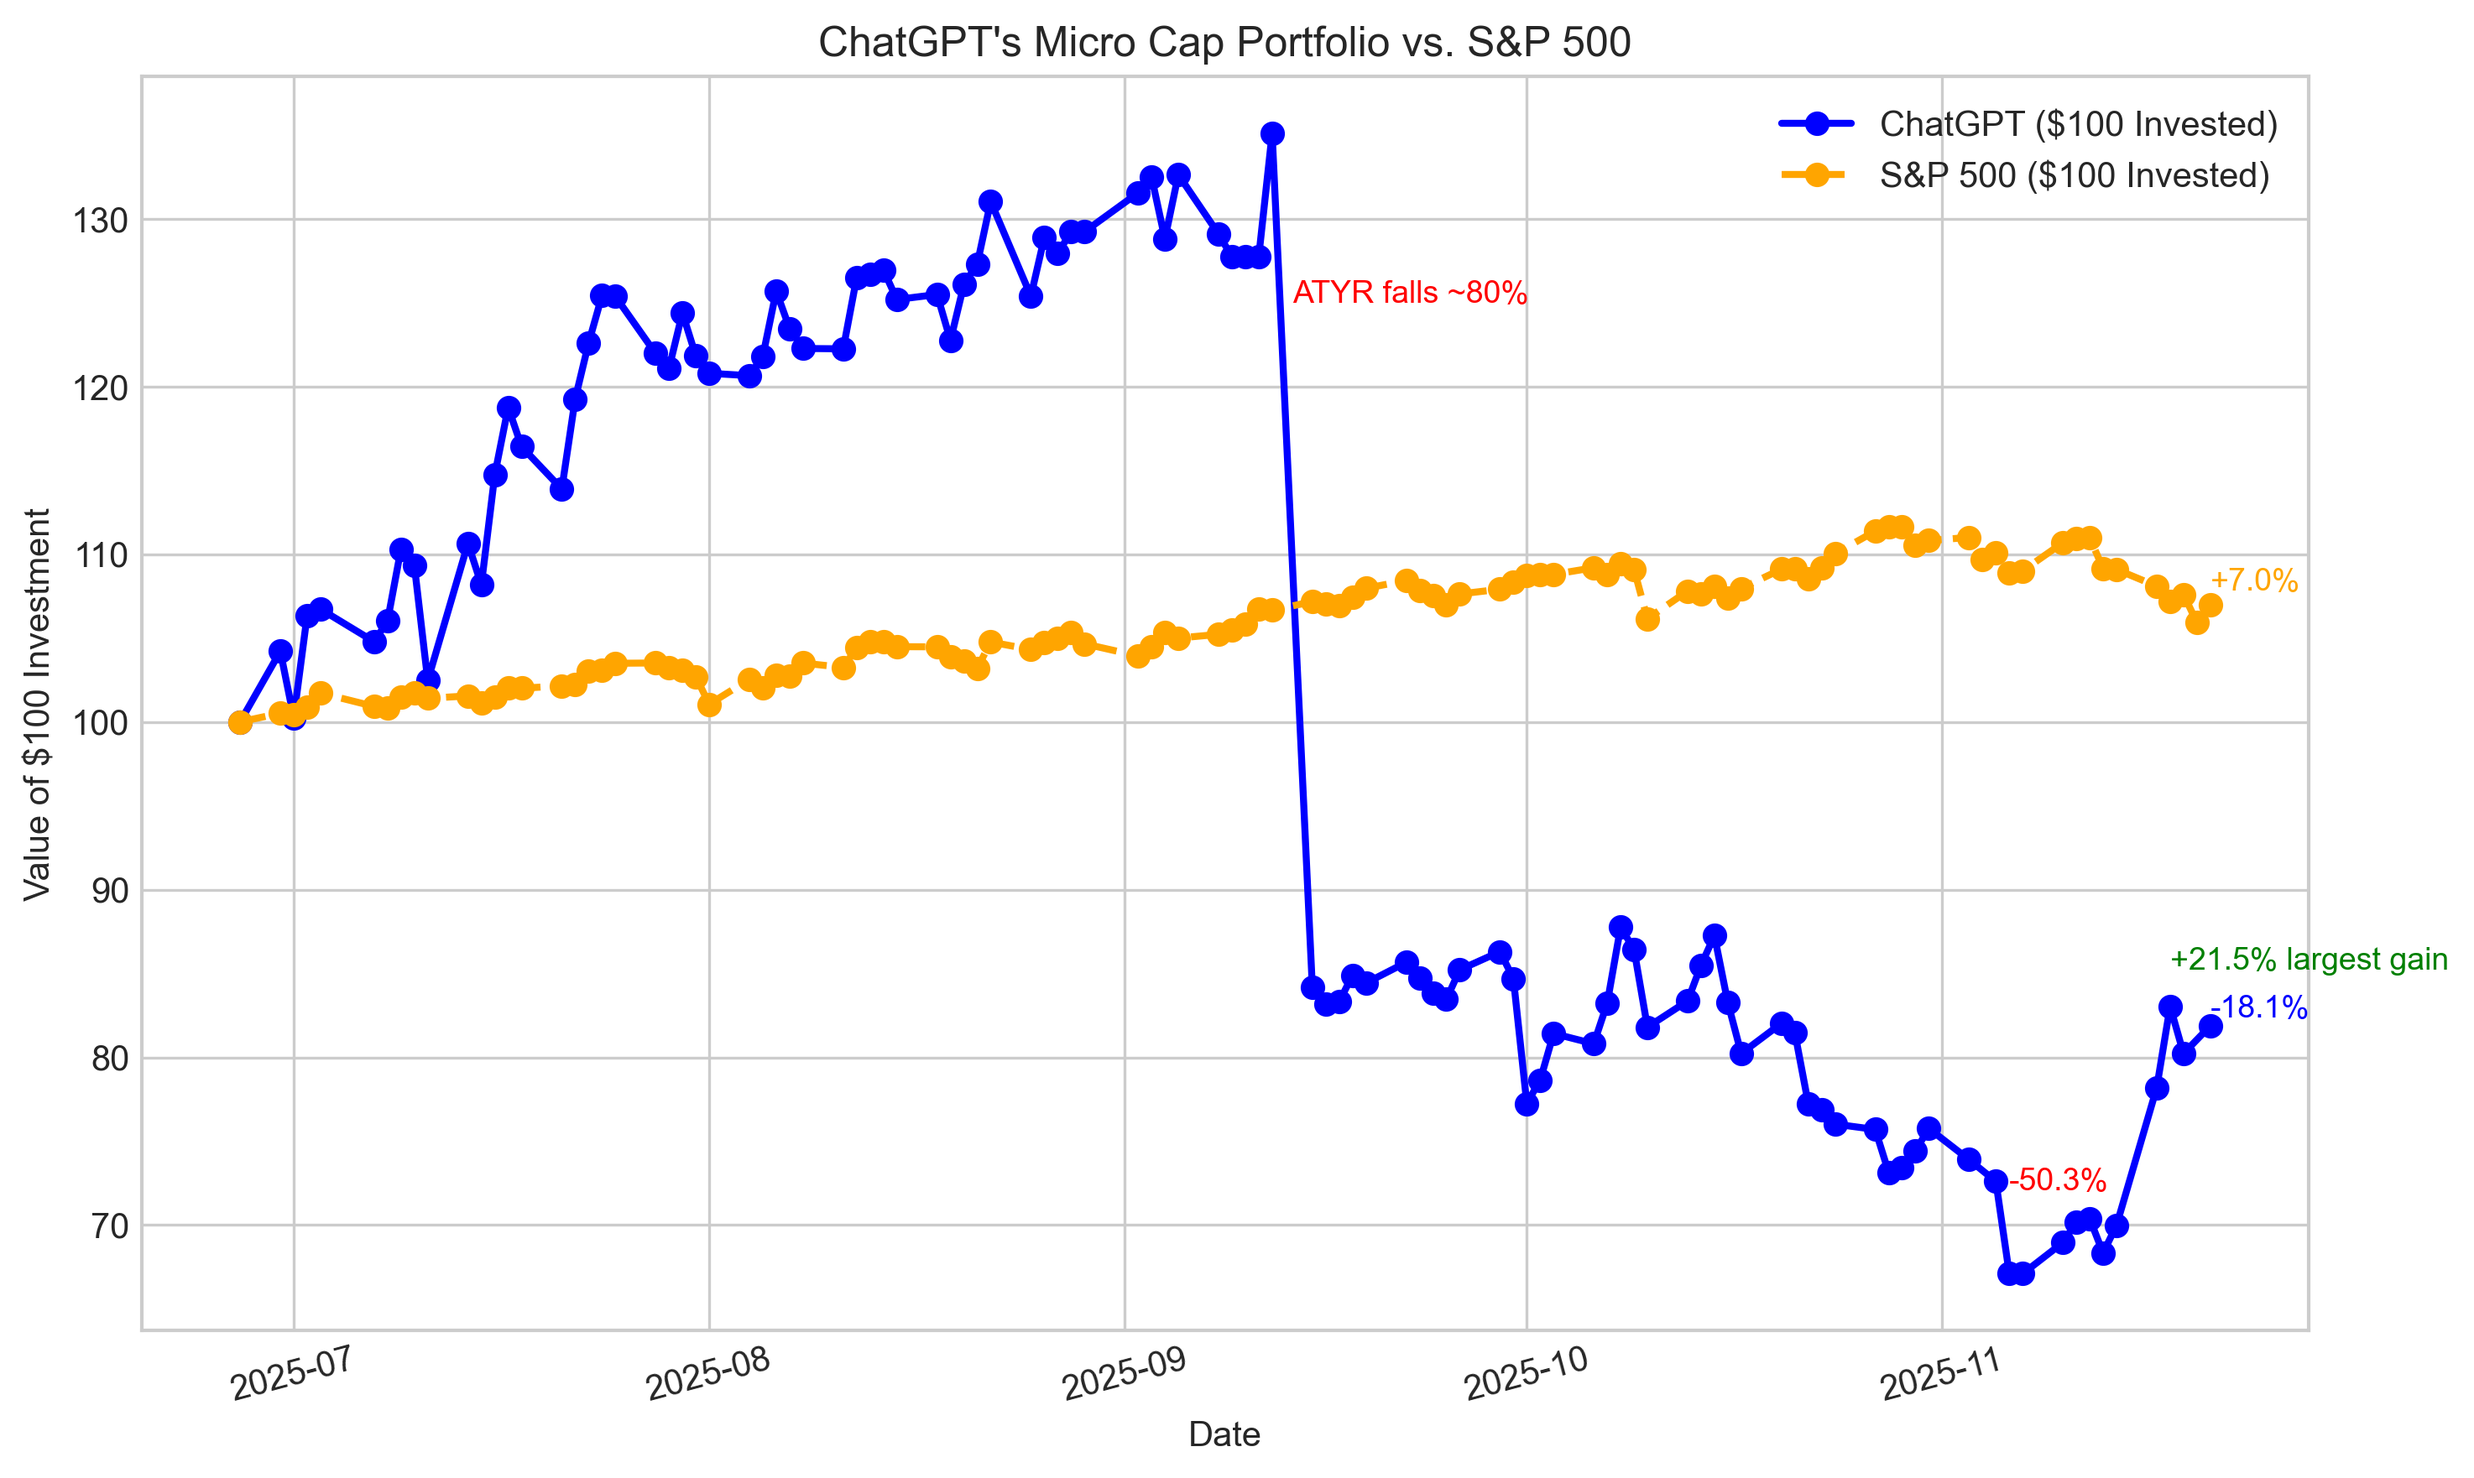
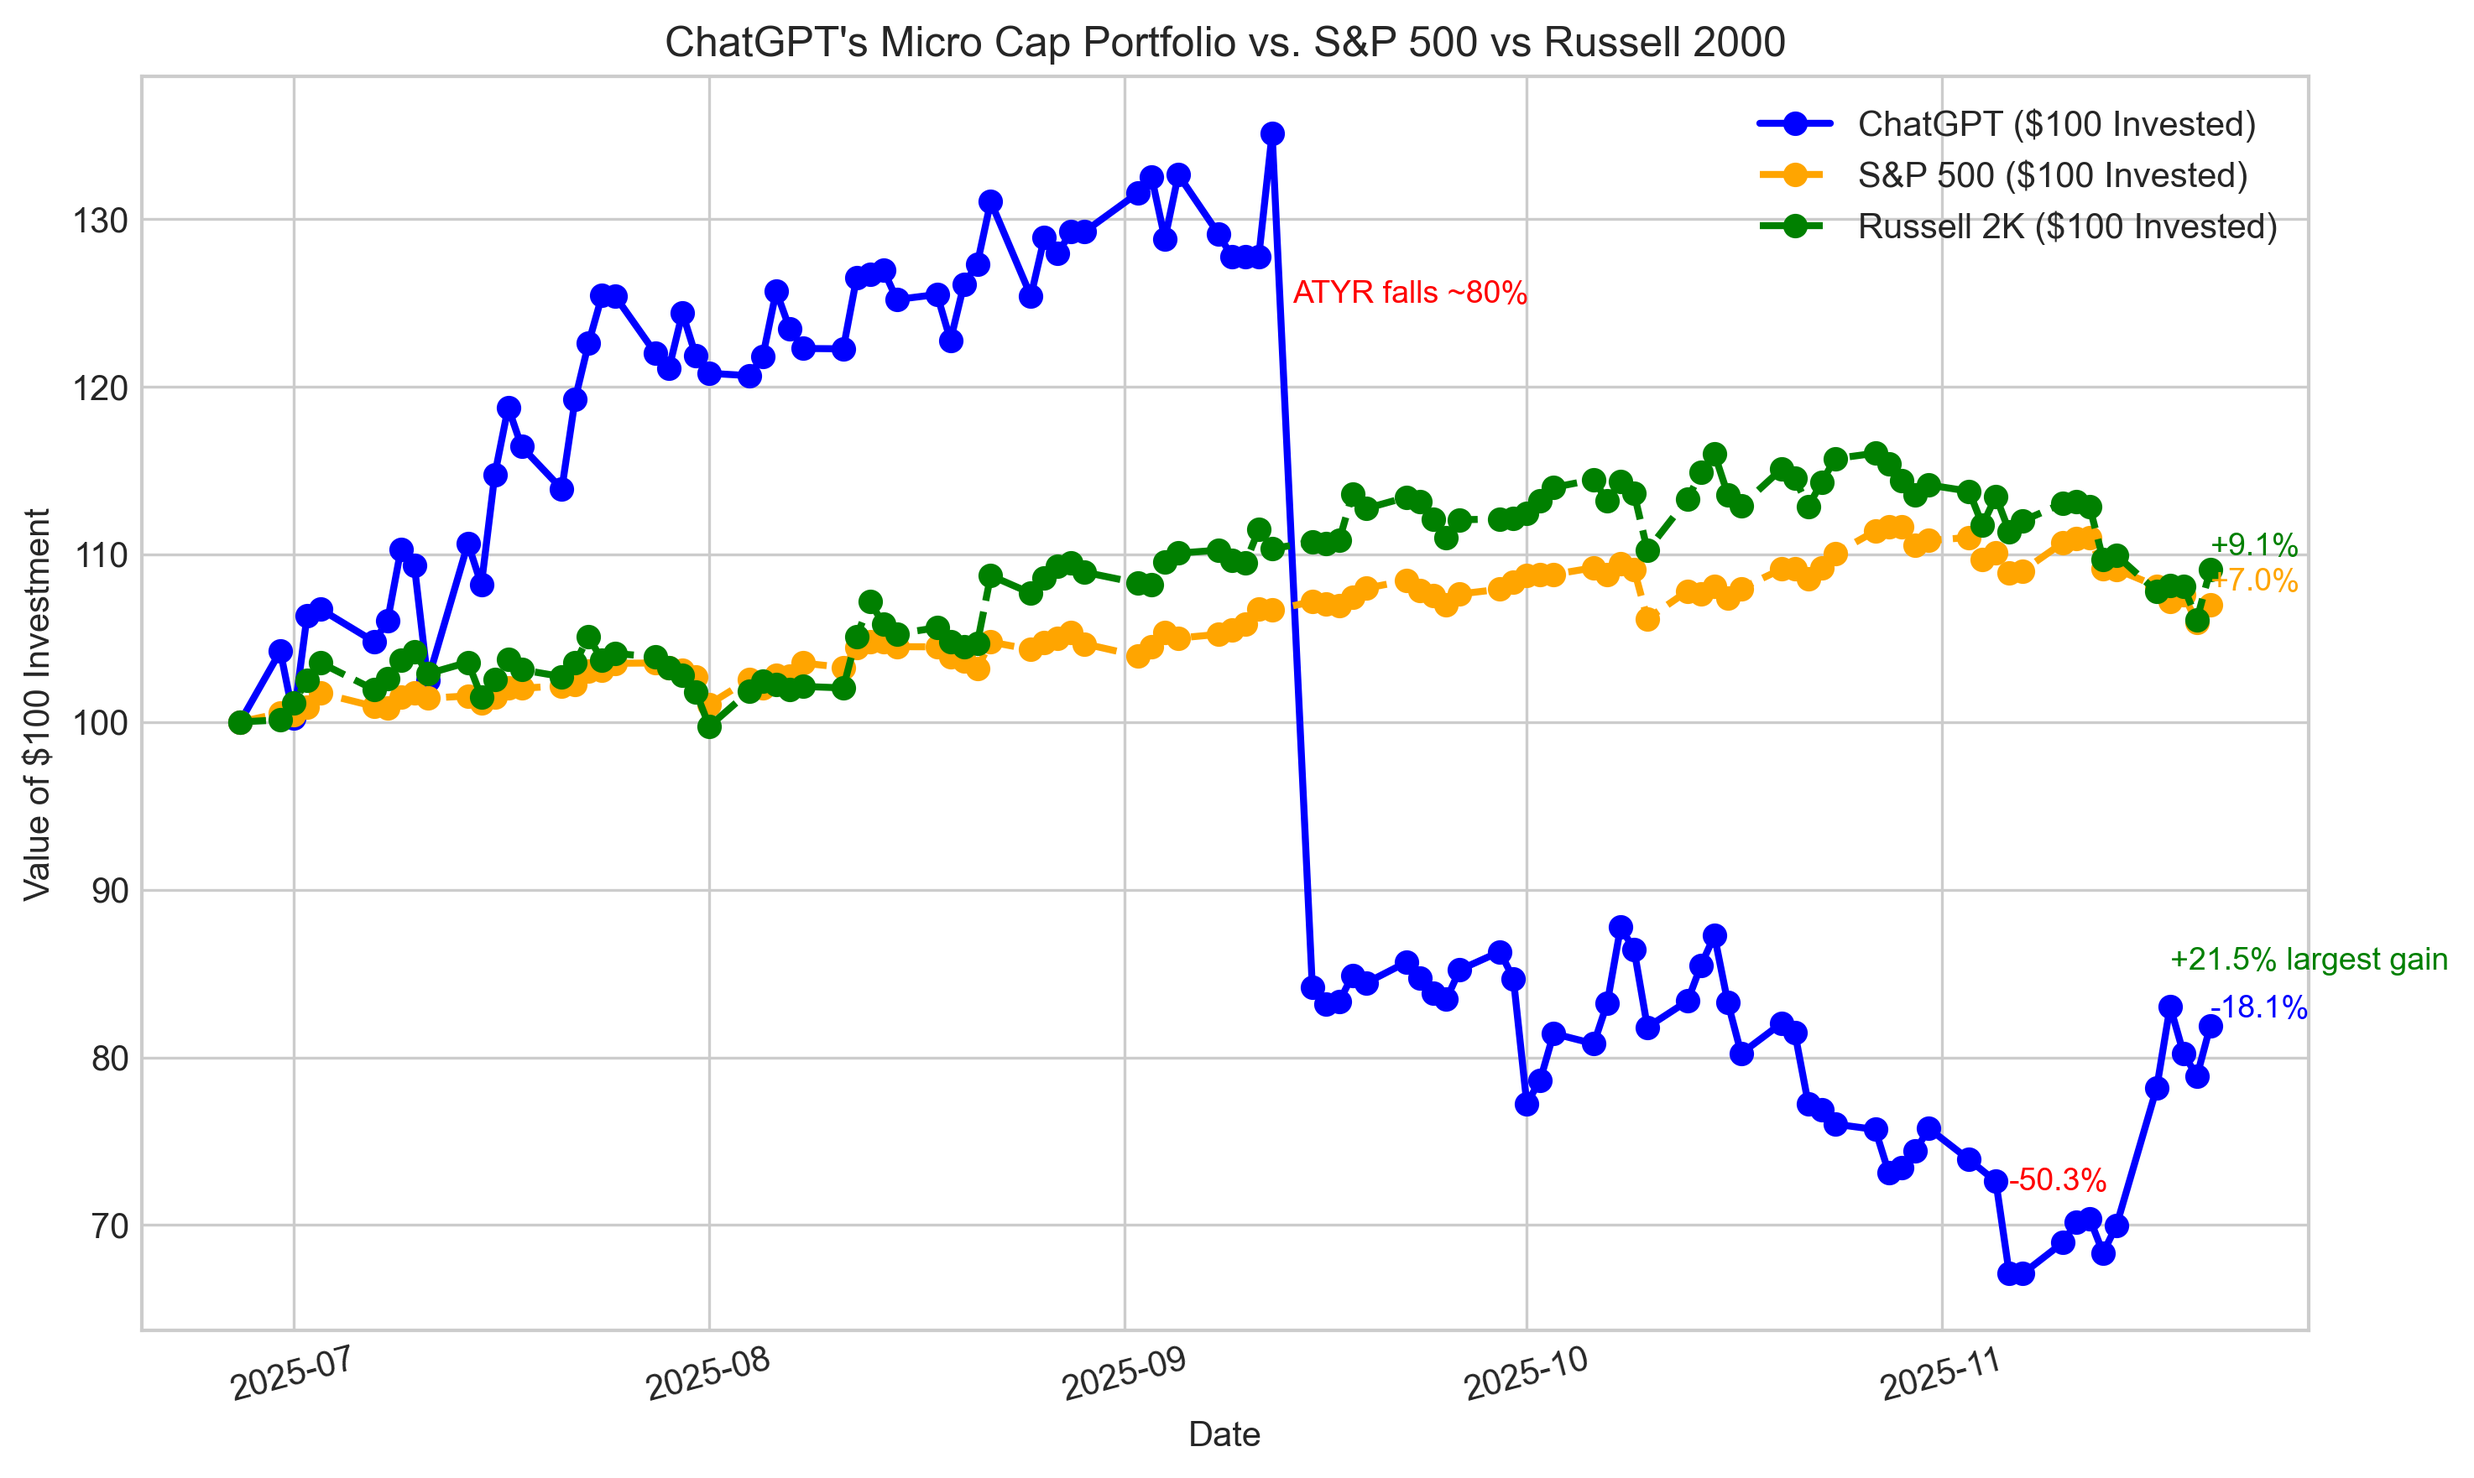
Create Russell 2K baseline

diff --git a/Scripts and CSV Files/Generate Graph.py b/Scripts and CSV Files/Generate Graph.py
@@ -41,6 +41,24 @@ def download_sp500(start_date: pd.Timestamp, end_date: pd.Timestamp) -> pd.DataF
     sp500["SPX Value ($100 Invested)"] = sp500["Close"] * scaling_factor
     return sp500[["Date", "SPX Value ($100 Invested)"]]
 
+def download_baseline(ticker: str, start_date: pd.Timestamp, end_date: pd.Timestamp) -> pd.DataFrame:
+    """Download prices and normalise to a $100 baseline."""
+
+    baseline = yf.download(ticker, start=start_date, end=end_date + pd.Timedelta(days=1),
+                        progress=False, auto_adjust=True)
+    baseline = baseline.reset_index()
+    if isinstance(baseline.columns, pd.MultiIndex):
+        baseline.columns = baseline.columns.get_level_values(0)
+
+    starting_price_data = yf.download(ticker, start="2025-06-27", end="2025-06-28", auto_adjust=True, progress=False)
+    if isinstance(starting_price_data.columns, pd.MultiIndex):
+        starting_price_data.columns = starting_price_data.columns.droplevel(1)
+    starting_price = starting_price_data.loc[starting_price_data.index[0], "Close"]
+
+    scaling_factor = 100.0 / starting_price
+    baseline["Adjusted Value ($100 Invested)"] = baseline["Close"] * scaling_factor
+    return baseline[["Date", "Adjusted Value ($100 Invested)"]]
+
 
 def find_largest_gain(df: pd.DataFrame) -> tuple[pd.Timestamp, pd.Timestamp, float]:
     """
@@ -107,7 +125,8 @@ def main() -> dict:
 
     start_date = pd.Timestamp("2025-06-27")
     end_date = chatgpt_totals["Date"].max()
-    sp500 = download_sp500(start_date, end_date)
+    sp500 = download_baseline("^SPX", start_date, end_date)
+    russell = download_baseline("^RUT", start_date, end_date)
 
     # metrics
     largest_start, largest_end, largest_gain = find_largest_gain(chatgpt_totals)
@@ -127,10 +146,19 @@ def main() -> dict:
     )
     plt.plot(
         sp500["Date"],
-        sp500["SPX Value ($100 Invested)"],
+        sp500["Adjusted Value ($100 Invested)"],
         label="S&P 500 ($100 Invested)",
         marker="o",
         color="orange",
+        linestyle="--",
+        linewidth=2,
+    )
+    plt.plot(
+        russell["Date"],
+        russell["Adjusted Value ($100 Invested)"],
+        label="Russell 2K ($100 Invested)",
+        marker="o",
+        color="Green",
         linestyle="--",
         linewidth=2,
     )
@@ -150,9 +178,11 @@ def main() -> dict:
     # annotate final P/Ls
     final_date = chatgpt_totals["Date"].iloc[-1]
     final_chatgpt = float(chatgpt_totals["Total Equity"].iloc[-1])
-    final_spx = float(sp500["SPX Value ($100 Invested)"].iloc[-1])
+    final_spx = float(sp500["Adjusted Value ($100 Invested)"].iloc[-1])
+    final_rut = float(russell["Adjusted Value ($100 Invested)"].iloc[-1])
     plt.text(final_date, final_chatgpt + 0.5, f"{final_chatgpt - 100.0:.1f}%", color="blue", fontsize=9)
     plt.text(final_date, final_spx + 0.9, f"+{final_spx - 100.0:.1f}%", color="orange", fontsize=9)
+    plt.text(final_date, final_rut + 0.9, f"+{final_rut - 100.0:.1f}%", color="green", fontsize=9)
 
     # label ATYR's catalyst failure
     plt.text(
@@ -172,7 +202,7 @@ def main() -> dict:
         fontsize=9,
     )
 
-    plt.title("ChatGPT's Micro Cap Portfolio vs. S&P 500")
+    plt.title("ChatGPT's Micro Cap Portfolio vs. S&P 500 vs Russell 2000")
     plt.xlabel("Date")
     plt.ylabel("Value of $100 Investment")
     plt.xticks(rotation=15)
